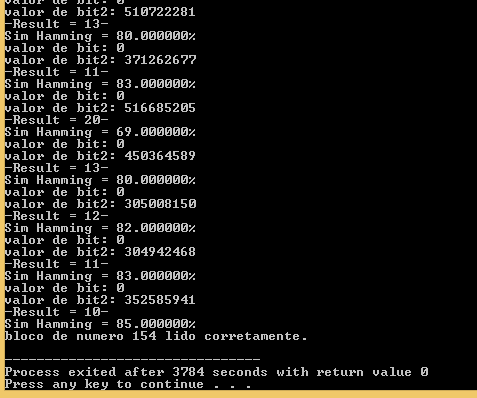
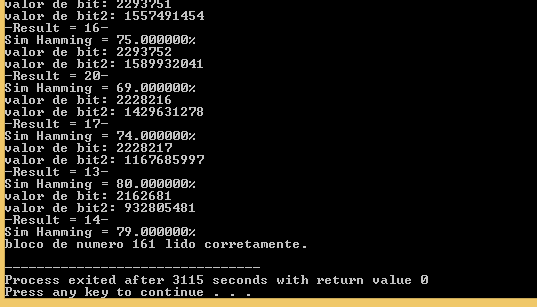
referesh code

Changed region(s): [[0.0, 0.0, 1.0, 0.9967]]

diff --git a/Fase1/hammingDistance/projetoDevCpp/hammingFunctions.c b/Fase1/hammingDistance/projetoDevCpp/hammingFunctions.c
@@ -7,7 +7,8 @@ float analyse_file()
 {
     FILE *arq;
     FILE *arq2;
-    int bit[BLOCO], bit_2[BLOCO], teste1, teste2, result, contador = 0, i = 0, divisor = 0;
+    long int bit[BLOCO], bit_2[BLOCO];
+    int teste1, teste2, result, contador = 0, i = 0, divisor = 0;
     double similaridade, acumulador = 0;
     float media;
 
@@ -43,8 +44,8 @@ float analyse_file()
         return 1;
     };
 
-        teste1 = fread( bit, sizeof(int), BLOCO, arq );
-        teste2 = fread( bit_2, sizeof(int), BLOCO, arq2 );
+        teste1 = fread( bit, sizeof(long int), BLOCO, arq );
+        teste2 = fread( bit_2, sizeof(long int), BLOCO, arq2 );
 
         printf("\n\nvalor de teste1: %d valor de teste2: %d\n\n", teste1, teste2);
 
@@ -131,3 +132,26 @@ void save_data(float media)
 
     fclose(arq);
 }
+/*
+void save_information() 
+{
+	FILE *arq;
+	char linha[100];
+	int i = 0;
+
+    arq = fopen("./testes/arquivoDeAnalise.txt", "a");
+
+		printf("Escreva sobre esse teste: ");
+		
+		do {
+			linha[i] = getchar();
+			++i;
+			if (linha[i])
+		} while ( linha[i] != "\n" );
+		//adciona o caractere nulo
+		linha[i - 1] = "\0";
+		
+        fprintf(arq, "%s\n", linha);
+
+    fclose(arq);
+} */

diff --git a/Fase1/hammingDistance/projetoDevCpp/hammingFunctions.h b/Fase1/hammingDistance/projetoDevCpp/hammingFunctions.h
@@ -9,5 +9,6 @@
     int hammingDistance(int n1, int n2);
     int readingFileError(FILE *arch1, FILE *arch2);
     void save_data(float media);
+    //void save_information();
 
 #endif // HAMMINGFUNCTIONS_H_INCLUDED

diff --git a/Fase1/hammingDistance/projetoDevCpp/main.c b/Fase1/hammingDistance/projetoDevCpp/main.c
@@ -3,6 +3,8 @@
 
 int main(){
     float media;
+    
+	//save_information();
 
     media = analyse_file();
 
